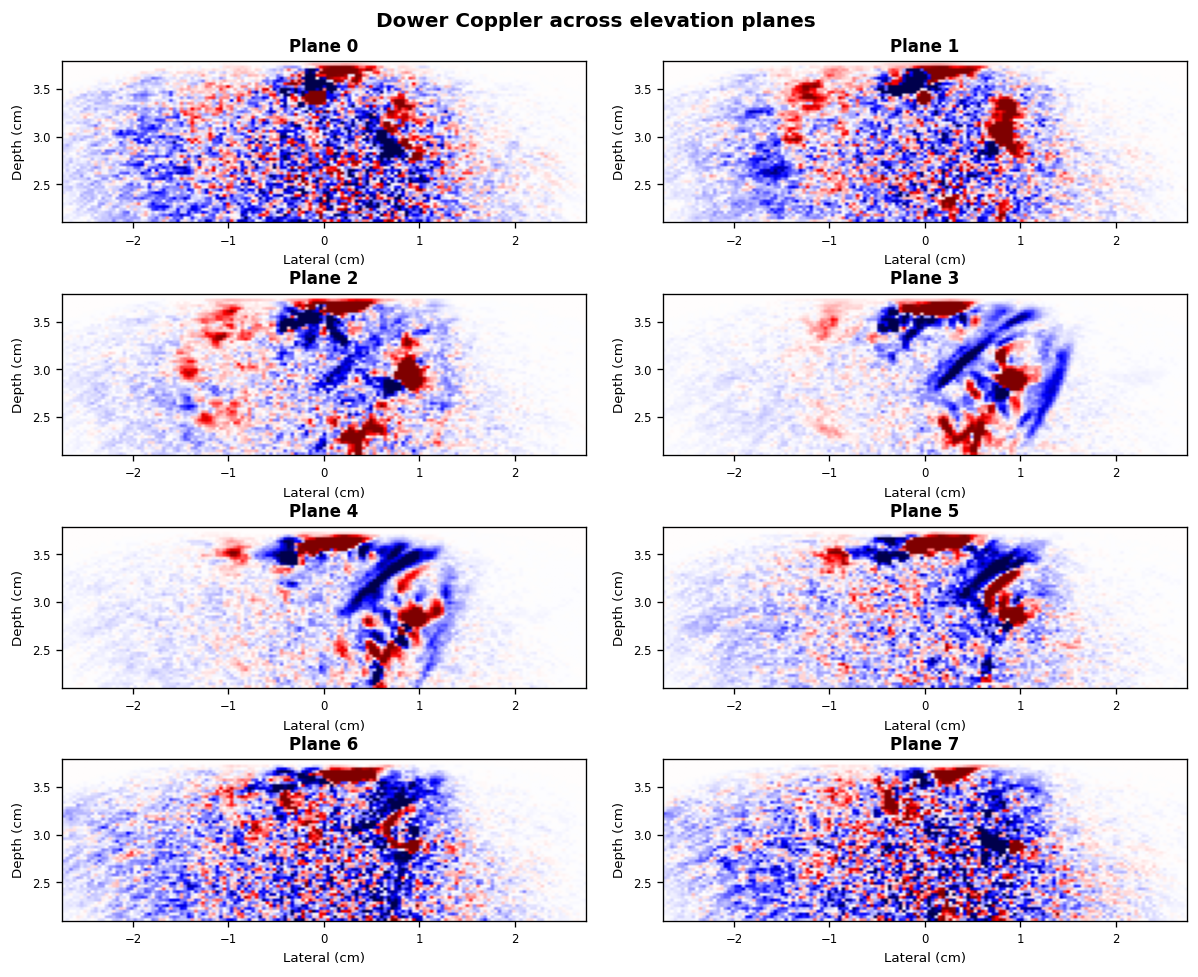
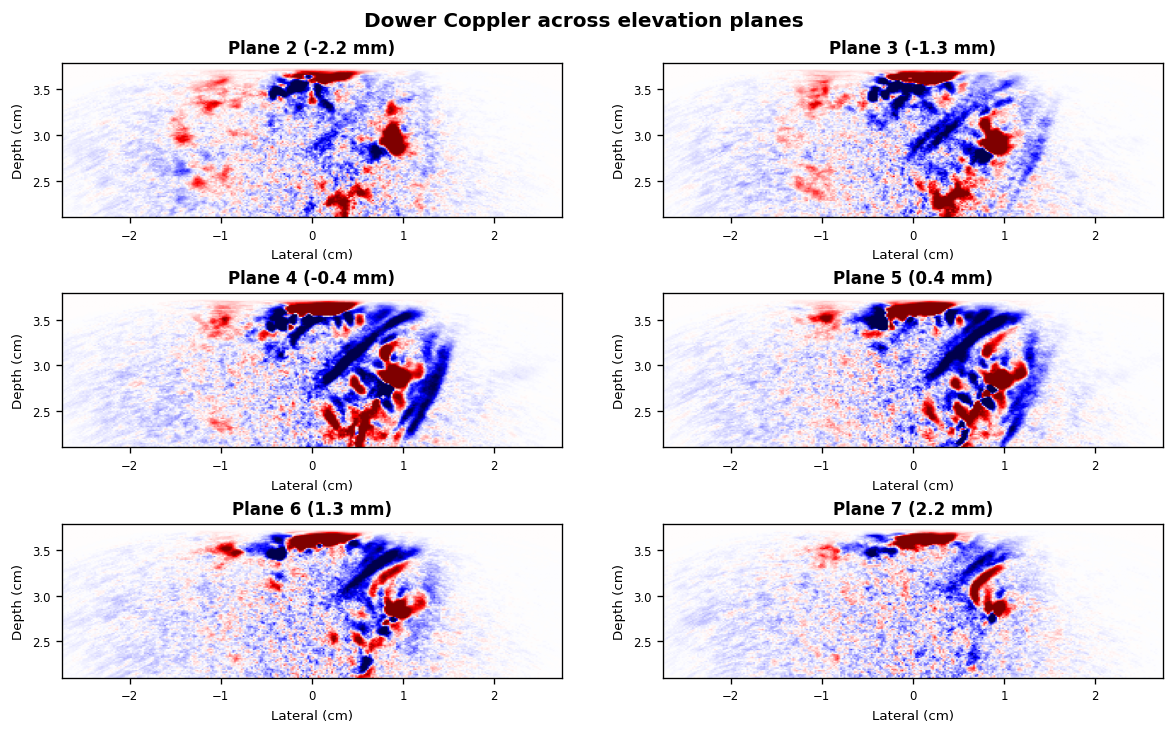
Use fine elevation run for volume montage

diff --git a/scripts/generate_paper_figures.py b/scripts/generate_paper_figures.py
@@ -28,7 +28,9 @@ ROOT = Path(__file__).resolve().parents[1]
 DATA_DIR = ROOT / "data"
 OUTPUT_DIR = ROOT / "outputs" / "paper_figures"
 DEFAULT_REGIONS_PATH = DATA_DIR / "cnr_measurement_20260515_191622.regions.json"
-DEFAULT_ALL_PLANES_PATH = DATA_DIR / "head_2025-09-21_new_h5_recomputed_dower_acq200_399_mid8elev.npz"
+DEFAULT_ALL_PLANES_PATH = DATA_DIR / "head_2025-09-21_full2dtx_fast8_fine_xz_y-4to4mm_10elev_acq200_400.npz"
+DEFAULT_ALL_PLANES_START = 2
+DEFAULT_ALL_PLANES_END = 7
 DEFAULT_EXTERNAL_RECORDING_PATH = DATA_DIR / (
     "bt24480388_2026-05-18_152605_txel0_h5_row-1_fine_xz_y-3p5to3p5mm_10elev_all20.npz"
 )
@@ -296,30 +298,47 @@ def figure_temporal_stability(data: dict, output_dir: Path):
 # ── Figure: All elevation planes ──────────────────────────────────────
 
 
-def figure_all_planes(data: dict, output_dir: Path, acq_start: int = 0, acq_end: int = 480):
-    """Dower Coppler maps for all 10 elevation planes."""
+def figure_all_planes(
+    data: dict,
+    output_dir: Path,
+    acq_start: int = 0,
+    acq_end: int = 480,
+    plane_start: int = DEFAULT_ALL_PLANES_START,
+    plane_end: int = DEFAULT_ALL_PLANES_END,
+):
+    """Dower Coppler maps for a selected inclusive range of elevation planes."""
     arr = np.asarray(data["dower_coppler"])
     n_planes = arr.shape[1] if arr.ndim == 4 else arr.shape[0] if arr.ndim == 3 else 1
+    plane_start = max(0, min(int(plane_start), n_planes - 1))
+    plane_end = max(plane_start, min(int(plane_end), n_planes - 1))
+    planes = list(range(plane_start, plane_end + 1))
     ncols = 2
-    nrows = (n_planes + ncols - 1) // ncols
+    nrows = (len(planes) + ncols - 1) // ncols
 
     fig, axes = plt.subplots(nrows, ncols, figsize=(10, nrows * 2.0), constrained_layout=True)
     axes = axes.ravel()
 
-    for plane in range(n_planes):
-        dc_full = metric_plane(data, "dower_coppler", plane, acq_start, acq_end)
-        dc_img, dc_vmin, dc_vmax = signed_image(dc_full, 97.0)
+    plane_images = [metric_plane(data, "dower_coppler", plane, acq_start, acq_end) for plane in planes]
+    finite_abs = np.concatenate([np.abs(img[np.isfinite(img)]).ravel() for img in plane_images])
+    common_lim = float(np.percentile(finite_abs, 97.0)) if finite_abs.size else 1.0
+
+    for ax_idx, (plane, dc_full) in enumerate(zip(planes, plane_images)):
         extent = axis_extent_cm(data, dc_full.shape)
-        axes[plane].imshow(dc_full.astype(np.float32), origin="lower", aspect="equal",
-                           extent=extent,
-                           cmap="seismic", vmin=dc_vmin, vmax=dc_vmax)
-        axes[plane].set_title(f"Plane {plane}", fontsize=10, fontweight="bold")
-        axes[plane].set_xlabel("Lateral (cm)", fontsize=8)
-        axes[plane].set_ylabel("Depth (cm)", fontsize=8)
-        axes[plane].tick_params(labelsize=7)
+        title = f"Plane {plane}"
+        if "y_mm" in data:
+            y_mm = np.asarray(data["y_mm"], dtype=float)
+            if plane < y_mm.size:
+                title += f" ({y_mm[plane]:.1f} mm)"
+        axes[ax_idx].imshow(dc_full.astype(np.float32), origin="lower", aspect="equal",
+                            extent=extent,
+                            cmap="seismic", vmin=-common_lim, vmax=common_lim)
+        axes[ax_idx].set_title(title, fontsize=10, fontweight="bold")
+        axes[ax_idx].set_xlabel("Lateral (cm)", fontsize=8)
+        axes[ax_idx].set_ylabel("Depth (cm)", fontsize=8)
+        axes[ax_idx].tick_params(labelsize=7)
 
     # Hide any unused axes
-    for idx in range(n_planes, len(axes)):
+    for idx in range(len(planes), len(axes)):
         axes[idx].set_visible(False)
 
     fig.suptitle("Dower Coppler across elevation planes", fontsize=12, fontweight="bold")
@@ -702,6 +721,8 @@ def main():
     parser.add_argument("--output-dir", type=Path, default=OUTPUT_DIR)
     parser.add_argument("--regions", type=Path, default=DEFAULT_REGIONS_PATH)
     parser.add_argument("--all-planes-data", type=Path, default=DEFAULT_ALL_PLANES_PATH)
+    parser.add_argument("--all-planes-start", type=int, default=DEFAULT_ALL_PLANES_START)
+    parser.add_argument("--all-planes-end", type=int, default=DEFAULT_ALL_PLANES_END)
     parser.add_argument("--external-recording-data", type=Path, default=DEFAULT_EXTERNAL_RECORDING_PATH)
     parser.add_argument(
         "--external-recording-plane",
@@ -744,7 +765,12 @@ def main():
     figure_dower_ablation(per_acq, args.output_dir)
     figure_velocity_vs_color(per_acq, args.output_dir, plane=0)
 
-    figure_all_planes(all_planes, args.output_dir)
+    figure_all_planes(
+        all_planes,
+        args.output_dir,
+        plane_start=args.all_planes_start,
+        plane_end=args.all_planes_end,
+    )
 
     if args.external_recording_data.exists():
         print("Loading external recording dataset...")

diff --git a/paper.tex b/paper.tex
@@ -653,16 +653,19 @@ buffers down to as few as 5~buffers.  At a single buffer, the major
 vessels remain identifiable but background noise increases
 substantially.
 
-\Cref{fig:all_planes} shows the Dower Coppler map across the middle
-eight elevation planes from the recomputed H5 dataset, providing a qualitative check that the directional
+\Cref{fig:all_planes} shows the Dower Coppler map across elevation
+planes 2--7 from a finer elevational rebeamforming run spanning
+$y=-4$ to $4$~mm, providing a qualitative check that the directional
 vascular pattern is not confined to a single selected plane.
 
 \begin{figure*}[t]
   \centering
   \includegraphics[width=\textwidth,height=0.78\textheight,keepaspectratio]{fig_all_planes.png}
-  \caption{Dower Coppler maps across the middle eight elevation planes
-    from the recomputed H5 dataset using acquisitions 200--399 (same
-    color scale).  The directional vascular
+  \caption{Dower Coppler maps across elevation planes 2--7 from the
+    finer elevational rebeamforming run spanning $y=-4$ to $4$~mm with
+    10 elevation planes.  The panels use acquisitions 200--400 and one
+    shared symmetric color scale computed from the 97th percentile of
+    absolute Dower Coppler values across the displayed planes.  The directional vascular
     pattern appears across the imaging volume, with similar vessel
     segments visible in adjacent planes.}
   \label{fig:all_planes}
@@ -686,8 +689,9 @@ without editing the paper.
     PRF 1476.3~Hz, $f_0=2.75$~MHz, $c=1600$~m/s, SVD cutoff 0.08,
     and $K=5$.  The main September 21 dataset uses a separate Head
     ultratrace, acquisitions 200--399 for the CNR/fine-grid analysis,
-    the middle eight elevation planes for the volume montage, PRF
-    1244.2~Hz, and the same $f_0$, $c$, SVD cutoff, and $K$.}
+    elevation planes 2--7 from the $y=-4$ to $4$~mm fine-elevation
+    run for the volume montage, PRF 1244.2~Hz, and the same $f_0$,
+    $c$, SVD cutoff, and $K$.}
   \label{fig:external_recording}
 \end{figure}
 